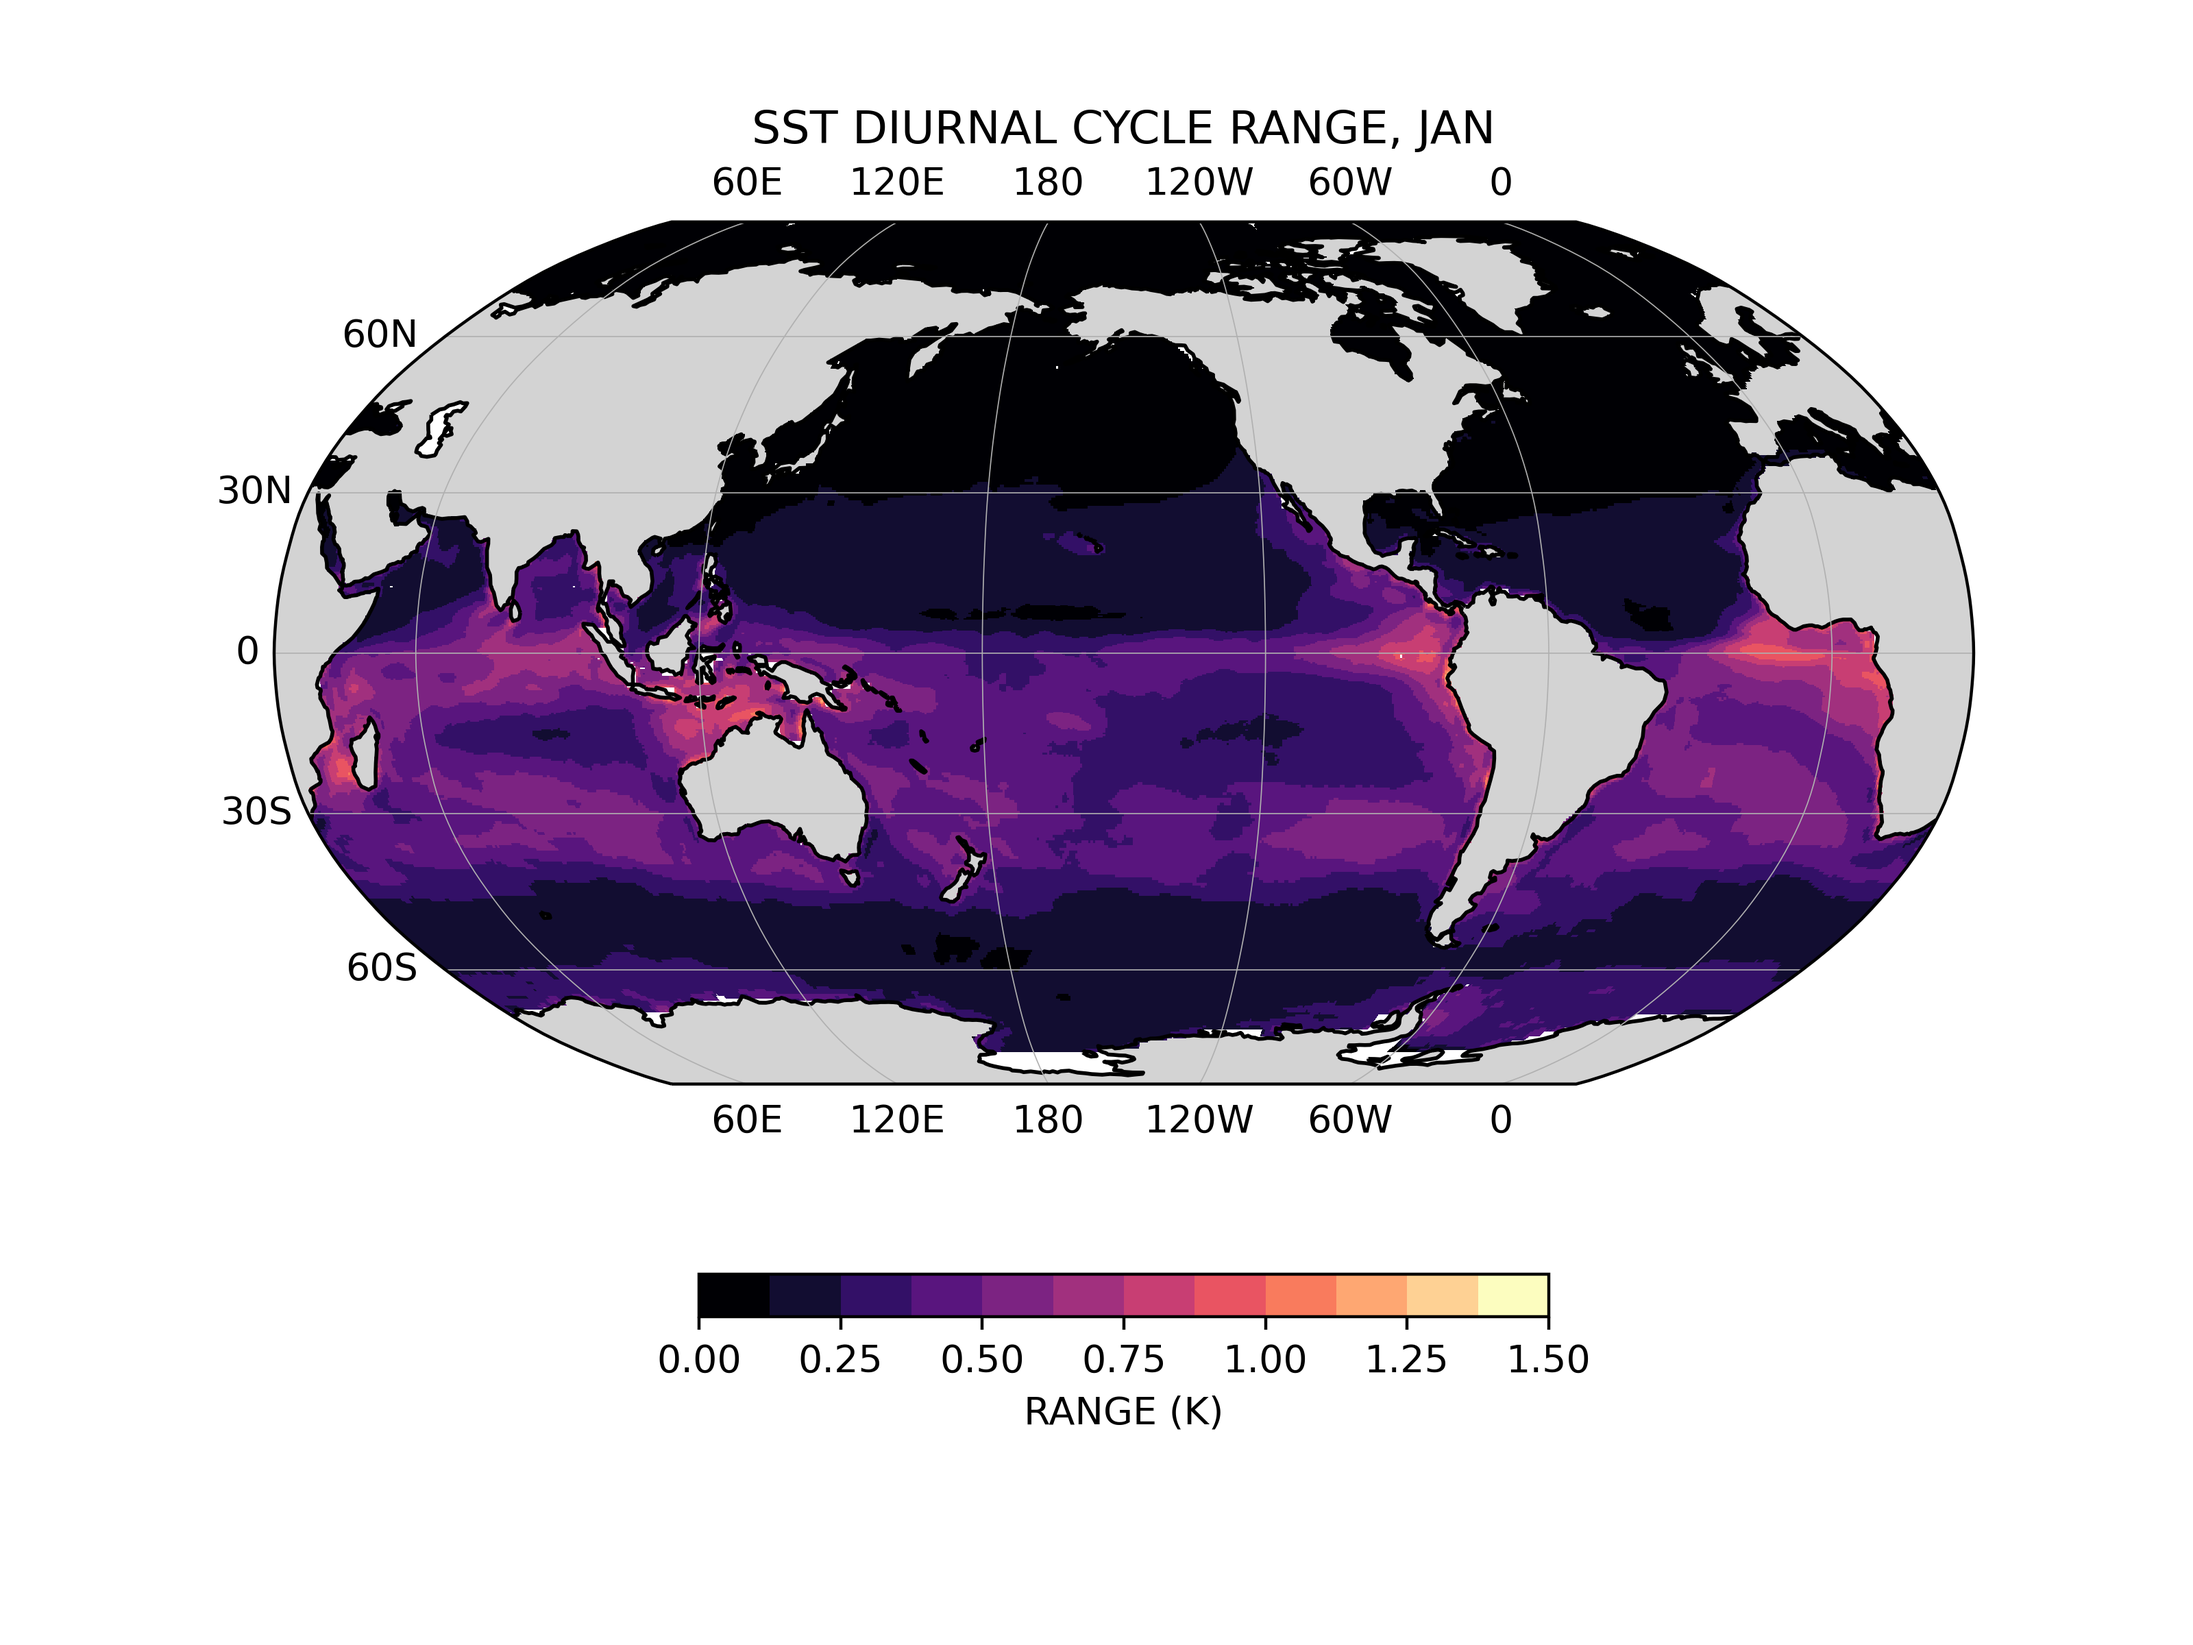
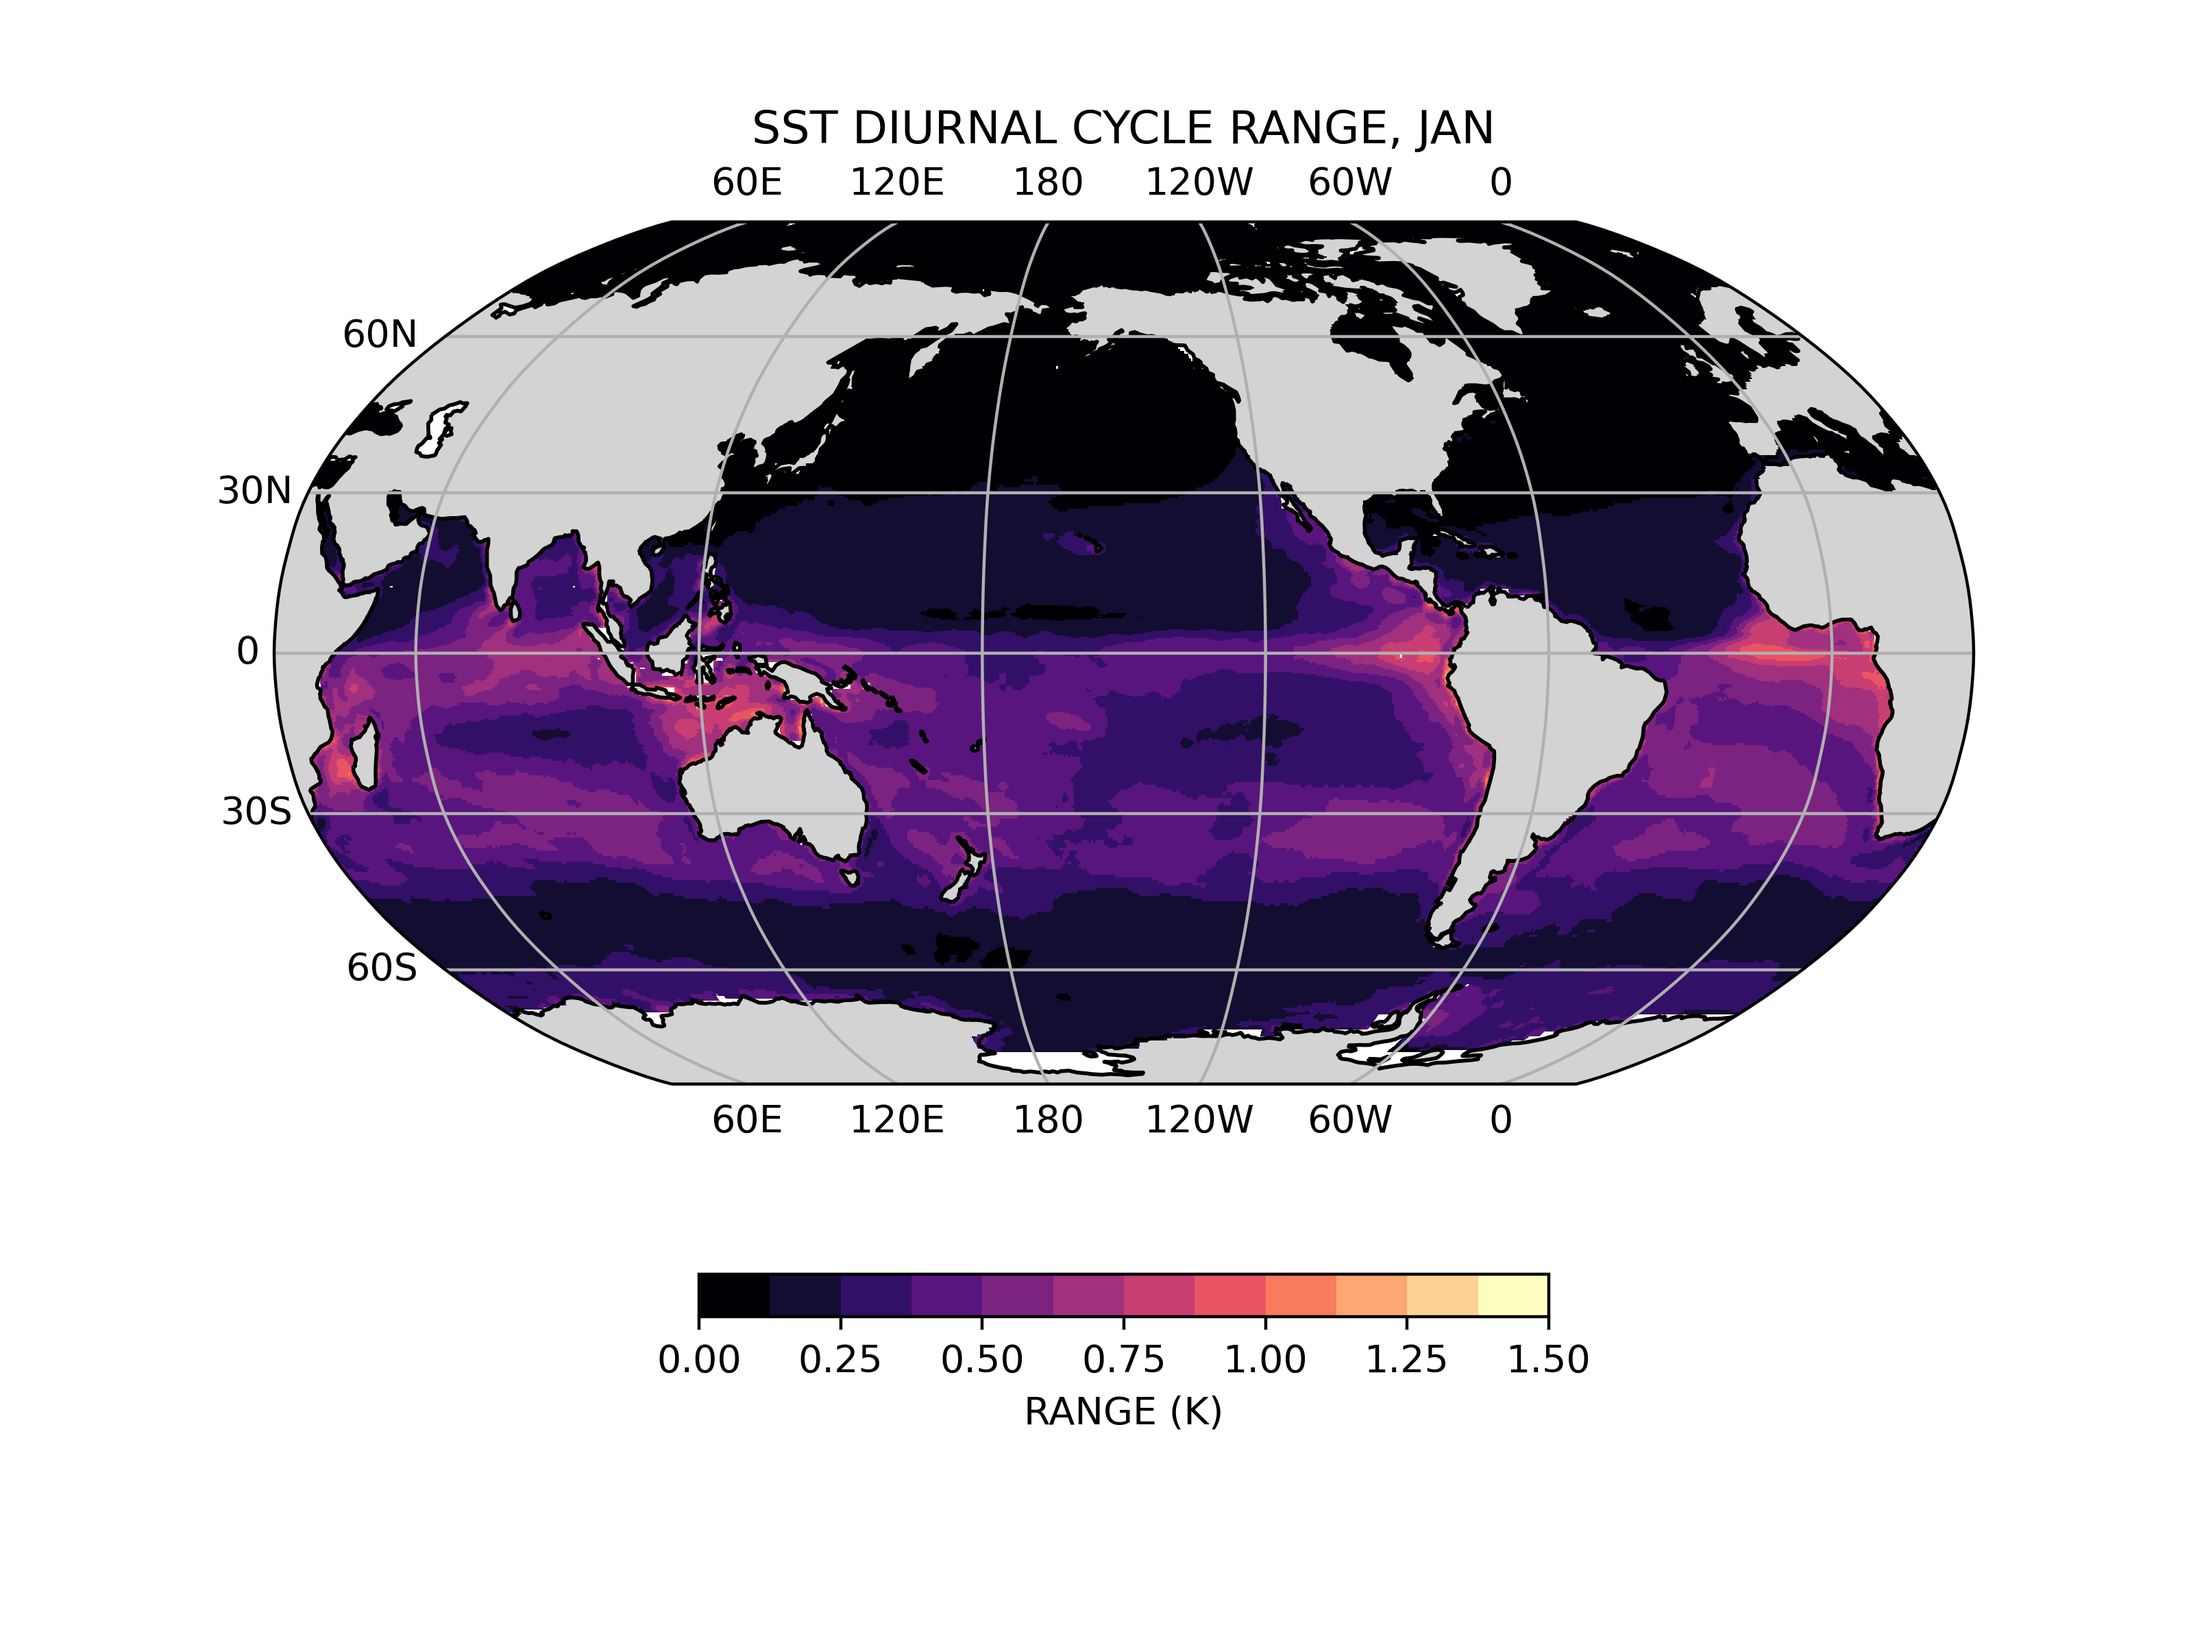
Updates plot appearance.

diff --git a/diurnal_cycle/analysis/diurnal_range_maps.py b/diurnal_cycle/analysis/diurnal_range_maps.py
@@ -191,7 +191,7 @@ def plot_one_map(ds, ptype, pvar, mon):
     gl = ax.gridlines(draw_labels=True,
                       xlocs=np.arange(-300, 151, 60),
                       ylocs=np.arange(-90, 91, 30),
-                      linewidth=0.3)
+                      linewidths=0.3)
     gl.right_labels = True
     gl.xformatter = LongitudeFormatter(zero_direction_label=False,
                                        degree_symbol='')
